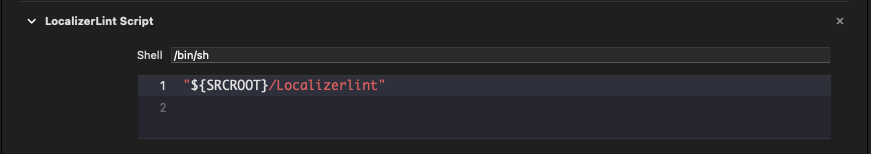
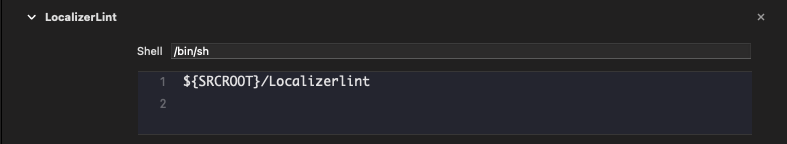
feat: Add cocoapods

diff --git a/Localizerlint/Localizerlint/DirectoryHelper.swift b/Localizerlint/Localizerlint/DirectoryHelper.swift
@@ -1,6 +1,6 @@
 //
 //  DirectoryHelper.swift
-//  LocalizableLint
+//  Localizerlint
 //
 //  Created by Samuel Lagunes on 12/4/20.
 //
@@ -28,11 +28,11 @@ final class DirectoryHelper {
     
     /// List of localizable files - not including Localizable files in the Pods
     var localizableFiles: [String] {
-        Logger.print(log: BuildLog(message: "------------ Searching for localization files ------------", type: .message))
+        Logger.print(log: BuildLog(message: "Searching for localization files", type: .message))
         let localizationFiles = pathFiles.filter { $0.hasSuffix(".strings") && !$0.contains("Pods") }
         
         if options.contains(.verbose) {
-            Logger.print(log: BuildLog(message: "------------ Available localizable files \(localizationFiles.count) ------------", type: .message))
+            Logger.print(log: BuildLog(message: "Available localizable files \(localizationFiles.count)", type: .message))
             localizationFiles.forEach({ Logger.print(log: BuildLog(message: $0, type: .message)) })
         }
         
@@ -41,7 +41,7 @@ final class DirectoryHelper {
     
     /// List of executable files
     var executableFiles: [String] {
-        Logger.print(log: BuildLog(message: "------------ Searching for source files ------------", type: .message))
+        Logger.print(log: BuildLog(message: "Searching for source files", type: .message))
         let paths = pathFiles.filter {
             if options.contains(.objectivec) {
                 return !$0.localizedCaseInsensitiveContains("test") && (NSString(string: $0).pathExtension == "swift" || NSString(string: $0).pathExtension == "m")
@@ -51,7 +51,7 @@ final class DirectoryHelper {
         }
         
         if options.contains(.verbose) {
-            Logger.print(log: BuildLog(message: "------------ Available source files \(paths.count) ------------", type: .message))
+            Logger.print(log: BuildLog(message: "Available source files \(paths.count)", type: .message))
             paths.forEach({ Logger.print(log: BuildLog(message: $0, type: .message)) })
         }
         

diff --git a/Localizerlint/Localizerlint/main.swift b/Localizerlint/Localizerlint/main.swift
@@ -1,23 +1,12 @@
-////
+//
 //  main.swift
-//  LocalizableLint
+//  Localizerlint
 //
 //  Created by Samuel Lagunes on 12/3/20.
 //
 
 import Foundation
 import ArgumentParser
-
-#if DEBUG
-//CommandLine.arguments.append("-h")
-//CommandLine.arguments.append("/Users/slagunes/Developer/Localizerlint/SampleApp/")
-//CommandLine.arguments.append("--search-duplicates-only")
-//CommandLine.arguments.append("--brute-force")
-//CommandLine.arguments.append("--inclue-swift-ui")
-//CommandLine.arguments.append("--include-objective-c")
-//CommandLine.arguments.append("--strict")
-//CommandLine.arguments.append("--verbose")
-#endif
 
 struct Localizerlint: ParsableCommand {
     @Argument(wrappedValue: "\(FileManager.default.currentDirectoryPath)/", help: "The root path of the project")
@@ -52,7 +41,7 @@ struct Localizerlint: ParsableCommand {
         }
         
         if verbose {
-            Logger.print(log: BuildLog(message: "Analying path: \(path)", type: .message))
+            Logger.print(log: BuildLog(message: "Path: \(path)", type: .message))
             Logger.print(log: BuildLog(message: "Brute force enabled: \(options.contains(.bruteForce))", type: .message))
             Logger.print(log: BuildLog(message: "SwiftUI enabled: \(options.contains(.swiftui))", type: .message))
             Logger.print(log: BuildLog(message: "Objective-C enabled: \(options.contains(.objectivec))", type: .message))
@@ -63,7 +52,6 @@ struct Localizerlint: ParsableCommand {
         let directory = DirectoryHelper(path: path, options: options)
         let stringsPaths = directory.localizableFiles
         let sourcePaths = directory.executableFiles
-        
         
         let stringFiles = FileReader.readFiles(filePaths: stringsPaths, options: options)
         
@@ -78,7 +66,6 @@ struct Localizerlint: ParsableCommand {
             }
             
             FileAnalyzer.evaluateKeys(codeFiles: localizedKeysInCode, localizationFiles: stringFiles, options: options)
-            
         }
     }
 }

diff --git a/Localizerlint/Localizerlint/LocalizationStringsFile.swift b/Localizerlint/Localizerlint/LocalizationStringsFile.swift
@@ -1,13 +1,12 @@
 //
-//  LocalizationStringsFile.swift
-//  LocalizableLint
+//  LocalizedStringsFile.swift
+//  Localizerlint
 //
 //  Created by Samuel Lagunes on 12/4/20.
 //
 
 import Foundation
 
-/// <#Description#>
 struct LocalizedStringsFile {
     let path: String
     let kv: [String: String]
@@ -19,13 +18,6 @@ struct LocalizedStringsFile {
     init(path: String, kv: [String: String]) {
         self.path = path
         self.kv = kv
-    }
-
-    /// Writes back to localizable file with sorted keys and removed whitespaces and new lines
-    func cleanWrite() {
-        Logger.print(log: BuildLog(message: "Formatting file: \(path)", type: .message))
-        let content = kv.keys.sorted().map { "\($0) = \(kv[$0]!);" }.joined(separator: "\n")
-        try! content.write(toFile: path, atomically: true, encoding: .utf8)
     }
 }
 

diff --git a/Localizerlint/Localizerlint/FileReader.swift b/Localizerlint/Localizerlint/FileReader.swift
@@ -1,6 +1,6 @@
 //
 //  FileReader.swift
-//  LocalizableLint
+//  Localizerlint
 //
 //  Created by Samuel Lagunes on 12/4/20.
 //
@@ -51,7 +51,7 @@ struct FileReader {
                 abort()
             }
             
-            Logger.print(log: BuildLog(message: "Validating for duplicate keys in file: \(path)", type: .message))
+            Logger.print(log: BuildLog(message: "Searching for duplicate keys in file: \(path)", type: .message))
             
             let linesContent = rawContent.components(separatedBy: "\n")
             var logs = [BuildLog]()

diff --git a/Localizerlint/Localizerlint/LocalizationCodeFile.swift b/Localizerlint/Localizerlint/LocalizationCodeFile.swift
@@ -1,13 +1,12 @@
 //
 //  LocalizationCodeFile.swift
-//  LocalizableLint
+//  Localizerlint
 //
 //  Created by Samuel Lagunes on 12/4/20.
 //
 
 import Foundation
 
-/// <#Description#>
 struct LocalizationCodeFile {
     let path: String
     let keys: Set<String>

diff --git a/Localizerlint/Localizerlint/FileAnalyzer.swift b/Localizerlint/Localizerlint/FileAnalyzer.swift
@@ -1,6 +1,6 @@
 //
 //  FileAnalyzer.swift
-//  LocalizableLint
+//  Localizerlint
 //
 //  Created by Samuel Lagunes on 12/4/20.
 //

diff --git a/Localizerlint/Localizerlint/String+Whitespaces.swift b/Localizerlint/Localizerlint/String+Whitespaces.swift
@@ -1,6 +1,6 @@
 //
 //  StringExt.swift
-//  LocalizableLint
+//  Localizerlint
 //
 //  Created by Samuel Lagunes on 12/4/20.
 //

diff --git a/Localizerlint/Localizerlint/Logger/BuildLog.swift b/Localizerlint/Localizerlint/Logger/BuildLog.swift
@@ -1,6 +1,6 @@
 //
 //  BuildLog.swift
-//  LocalizableLint
+//  Localizerlint
 //
 //  Created by Samuel Lagunes on 12/6/20.
 //

diff --git a/Localizerlint/Localizerlint/Logger/Loggable.swift b/Localizerlint/Localizerlint/Logger/Loggable.swift
@@ -1,6 +1,6 @@
 //
 //  Loggable.swift
-//  LocalizableLint
+//  Localizerlint
 //
 //  Created by Samuel Lagunes on 12/6/20.
 //

diff --git a/Localizerlint/Localizerlint/Logger/Logger.swift b/Localizerlint/Localizerlint/Logger/Logger.swift
@@ -1,6 +1,6 @@
 //
 //  Logger.swift
-//  LocalizableLint
+//  Localizerlint
 //
 //  Created by Samuel Lagunes on 12/5/20.
 //

diff --git a/README.md b/README.md
@@ -2,8 +2,25 @@
 
 #### This command line tool helps in the search for unused and duplicated localization strings in Xcode projects.
 
-## Usage
+## Installation
 
+### Using [CocoaPods](https://cocoapods.org):
+
+Add the following line to your Podfile:
+
+```
+pod 'Localizerlint'
+```
+
+This will download the Localizerlint binaries and dependencies in `Pods/` during your next `pod install` execution and will allow you to invoke it via `${PODS_ROOT}/Localizerlint/localizerlint` in your Script Build Phases.
+
+
+### Using a pre-built package:
+
+You can also install LocalizerLint by downloading `localizerlint.zip` from the
+[latest GitHub release](https://github.com/xlsmearlx/LocalizableLint/releases/latest) and running it.
+
+## Usage
 
 	USAGE: localizerlint [<path>] [--search-duplicates-only] [--inclue-swift-ui] [--include-objective-c] [--brute-force] [--strict] [--verbose]
 
@@ -42,7 +59,7 @@ Validating for duplicate keys in file: /SampleApp/Shared/en.lproj/Localizable.st
 ##### Find unused and duplicate strings
 
 ```
-$localizerlint Project_Directory/ --search-duplicates-only
+$localizerlint Project_Directory/
 
 Validating for duplicate keys in file: /SampleApp/Shared/en.lproj/Localizable.strings
 
@@ -52,8 +69,8 @@ Validating for duplicate keys in file: /SampleApp/Shared/en.lproj/Localizable.st
 
 Validating for duplicate keys in file: /SampleApp/Shared/es-419.lproj/Localizable.strings
 
-KEYS: 3 | DEADKEYS: 0 | /Users/slagunes/Developer/Localizerlint/SampleApp/Shared/en.lproj/Localizable.strings
-KEYS: 5 | DEADKEYS: 2 | /Users/slagunes/Developer/Localizerlint/SampleApp/Shared/es-419.lproj/Localizable.strings
+KEYS: 3 | DEADKEYS: 0 | /SampleApp/Shared/en.lproj/Localizable.strings
+KEYS: 5 | DEADKEYS: 2 | /SampleApp/Shared/es-419.lproj/Localizable.strings
 
 Searching for unused keys
 
@@ -92,13 +109,20 @@ struct ContentView: View {
 }
 ```
 
+## Xcode Integration
 
-##### Xcode Integration
+##### This tool is designed to be used as part of Xcode's Build. To integrate it just add a new `run script` phase 
 
-This tool is designed to be used as part of Xcode's Build. To integrate it just add a new `run script` phase 
+>${SRCROOT}/Localizerlint
 
 ![add_build_phase](readme_files/xcode_build_phase.png)
 
-After the tools is done searching for unused and duplicated keys, Xcode will display the violations.
+##### If using with **CocoaPods**
+
+>${PODS_ROOT}/Localizerlint/localizerlint
+
+![add_build_phase](readme_files/xcode_build_phase_pod.png)
+
+##### After the tools is done searching for unused and duplicated keys, Xcode will display the violations.
 
 ![xcode_build_log](readme_files/xcode_build_log.png)
